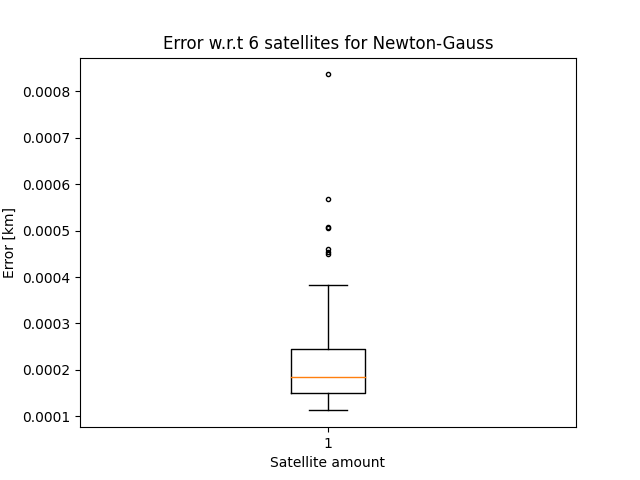
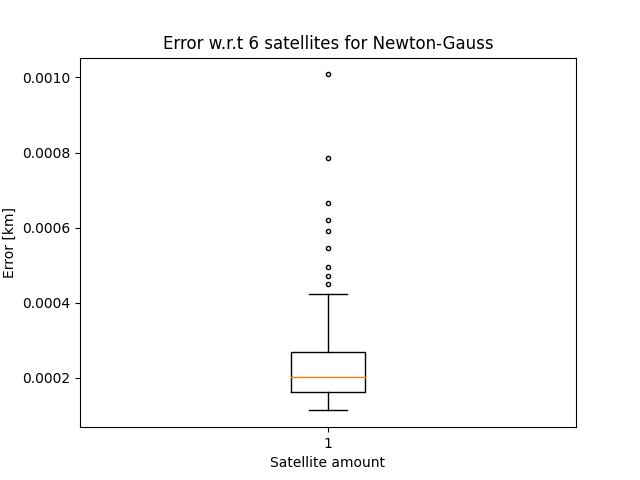
Improved the distance_w_error function

diff --git a/problem_8_daniel.py b/problem_8_daniel.py
@@ -103,15 +103,15 @@ def newton_gauss_mult(x0: list, tol: int, theta: list, phi: list, incorr_phi: li
     return(x)
 
 def distance_w_error(theta: list, phi: list, err: int, tol_err: int, sat_amount: int):
-    '''Runs the program and gives stores the intitial guess
-    And prints the solution in an acceptable way'''
+    '''Takes a list of angle coordinates of satellites and adds errors to those coordinates,
+    then it calculates the error and returns the maximum error found'''
 
     incorr_phis = get_incorr_phis(err, phi)
-    all_lenghts = []
+    all_errors = []
     for incorr_phi in incorr_phis:
         x,y,z,_ = newton_gauss_mult(X_0, tol_err, theta, phi, incorr_phi, sat_amount)
-        all_lenghts.append(sqrt(pow(x - X_0[0], 2) + pow(y - X_0[1], 2) + pow(z - X_0[2], 2)))
-    return all_lenghts
+        all_errors.append(sqrt(pow(x - X_0[0], 2) + pow(y - X_0[1], 2) + pow(z - X_0[2], 2)))
+    return max(all_errors)
 
 def main():
     sat_pos_amount = 100 
@@ -124,7 +124,7 @@ def main():
 
         rand_thetas, rand_phis = random_angles(sat_pos_amount, sat_amount)
         for i in range(len(rand_phis)):
-            max_error = max(distance_w_error(rand_thetas[i], rand_phis[i], 1e-8, 1e-8, sat_amount))
+            max_error = distance_w_error(rand_thetas[i], rand_phis[i], 1e-8, 1e-8, sat_amount)
             all_errors.append(max_error)
 
         max_error = max(all_errors)

diff --git a/problem_5.py b/problem_5.py
@@ -23,7 +23,7 @@ def location(phi, theta):
 
 #Constants
 tol_error = 1e-6
-error = 1e-2
+error = 1e-6
 tight_phi = [pi/8-error-error, pi/8-error, pi/8, pi/8+error]
 tight_theta = [pi/2 - error - error, pi/2 - error, pi/2, pi/2+error]
 
